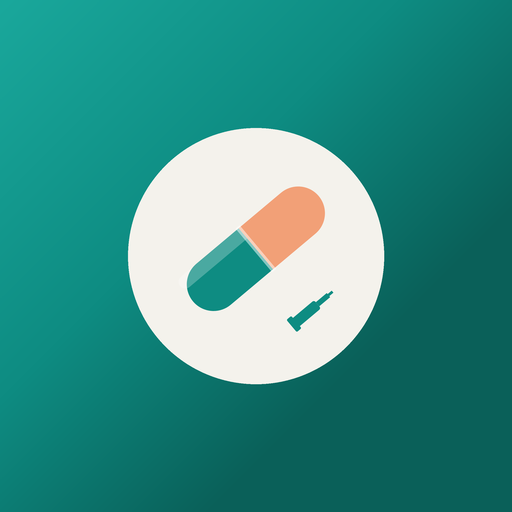
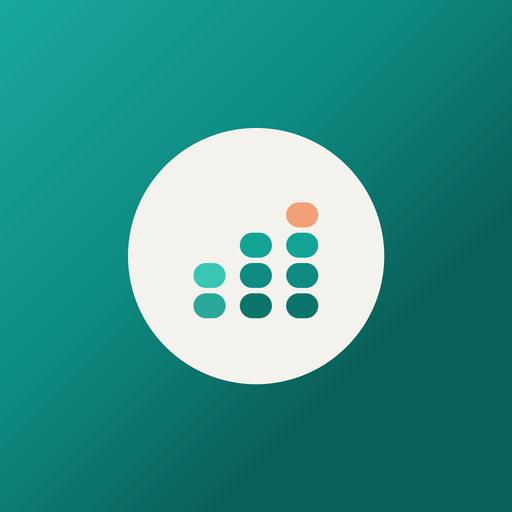
v3.8.0: ไอคอนแอพใหม่ — กราฟแท่งสต็อกยา สื่อ "จัดการ Stock ยา" ตรงตัว
ผู้ใช้ขอไอคอนสวยขึ้นและสื่อความหมายเรื่องจัดการสต็อกยาโดยตรง ไม่ใช่แค่
สัญลักษณ์ยาเฉยๆ

- มาร์กใหม่: 3 แท่งกราฟทรงเม็ดยาเรียงสูงขึ้นจากซ้ายไปขวา แต่ละแท่งประกอบ
  จากเม็ดยาเล็กๆ ซ้อนเป็นชั้น (2/3/4 เม็ด) — อ่านได้พร้อมกันสองความหมาย:
  กราฟแท่งระดับสต็อก (par/floor/substock ที่แอปนี้ทำจริงทุกวัน) และเม็ดยา
  เรียงเป็นชั้นบนชั้นวาง
- เม็ดบนสุดของแท่งสูงสุดเป็นสี coral (จุดเน้น "เต็ม/พร้อมใช้") ที่เหลือไล่เฉด
  เทอร์ควอยซ์เข้ม-อ่อนให้มีมิติ
- พื้นหลัง gradient เทอร์ควอยซ์ + แผ่นวงกลมครีมตรงกลางเหมือนเดิม
- อัปเดต icon-192/512, apple-touch-icon, icon-maskable-192/512 (ชื่อไฟล์เดิม)
- ตรารพ.ไฟล์จริงที่หน้า login/หัวกระดาษเอกสารพิมพ์ไม่เปลี่ยน

ตรวจสอบแล้ว: tsc -b ผ่าน, npm test 75/75 ผ่าน, npm run build สำเร็จ

Claude-Session: https://claude.ai/code/session_017ScEEJXyYsYTMjkuNbqpj1

Changed region(s): [[0.3438, 0.3438, 0.6562, 0.6562]]

diff --git a/CHANGELOG.md b/CHANGELOG.md
@@ -7,6 +7,22 @@
 > และไม่มีเครื่องมือสำหรับสร้าง GitHub Release ในชุดเครื่องมือที่ใช้งานได้ จึงใช้ไฟล์นี้ + `VERSION`
 > เป็นแหล่งความจริงของเลขเวอร์ชันแทน จนกว่าจะแก้ข้อจำกัดนั้นได้
 
+## [3.8.0] - 2026-09-08
+
+### Changed
+- **ออกแบบไอคอนแอพใหม่อีกครั้ง — แท่งสต็อกยาแบบกราฟแท่ง สื่อ "จัดการ Stock ยา" ตรงตัว** —
+  ผู้ใช้ขอไอคอนที่สวยขึ้นและสื่อความหมายเรื่องจัดการสต็อกยาโดยตรง ไม่ใช่แค่สัญลักษณ์ยาเฉยๆ
+  - มาร์กใหม่: **3 แท่งกราฟทรงเม็ดยาเรียงสูงขึ้นจากซ้ายไปขวา** แต่ละแท่งประกอบจากเม็ดยาเล็กๆ
+    ซ้อนกันเป็นชั้น (2/3/4 เม็ดตามลำดับ) — อ่านได้พร้อมกันสองความหมาย: กราฟแท่งระดับสต็อก
+    (สิ่งที่แอปนี้ทำจริงทุกวัน — par/floor/substock) และเม็ดยาที่เรียงเป็นชั้นบนชั้นวาง
+  - เม็ดบนสุดของแท่งที่สูงที่สุดเป็นสี coral (จุดเน้น "เต็ม/พร้อมใช้") ส่วนที่เหลือไล่เฉดเทอร์ควอยซ์
+    เข้ม-อ่อน ให้มีมิติ ไม่แบนราบ
+  - พื้นหลัง gradient เทอร์ควอยซ์ + แผ่นวงกลมครีมตรงกลางเหมือนเดิม (คงชุดภาษาการออกแบบเดียวกัน)
+  - อัปเดต icon-192/512, apple-touch-icon, icon-maskable-192/512 ทั้งชุด (ชื่อไฟล์เดิม)
+  - ตรารพ.ไฟล์จริงที่หน้า login และหัวกระดาษเอกสารพิมพ์ไม่เปลี่ยน — เปลี่ยนเฉพาะไอคอนแอพเท่านั้น
+
+ตรวจสอบแล้ว: tsc -b ผ่าน, npm test 75/75 ผ่าน, npm run build สำเร็จ
+
 ## [3.7.0] - 2026-09-08
 
 ### Changed
